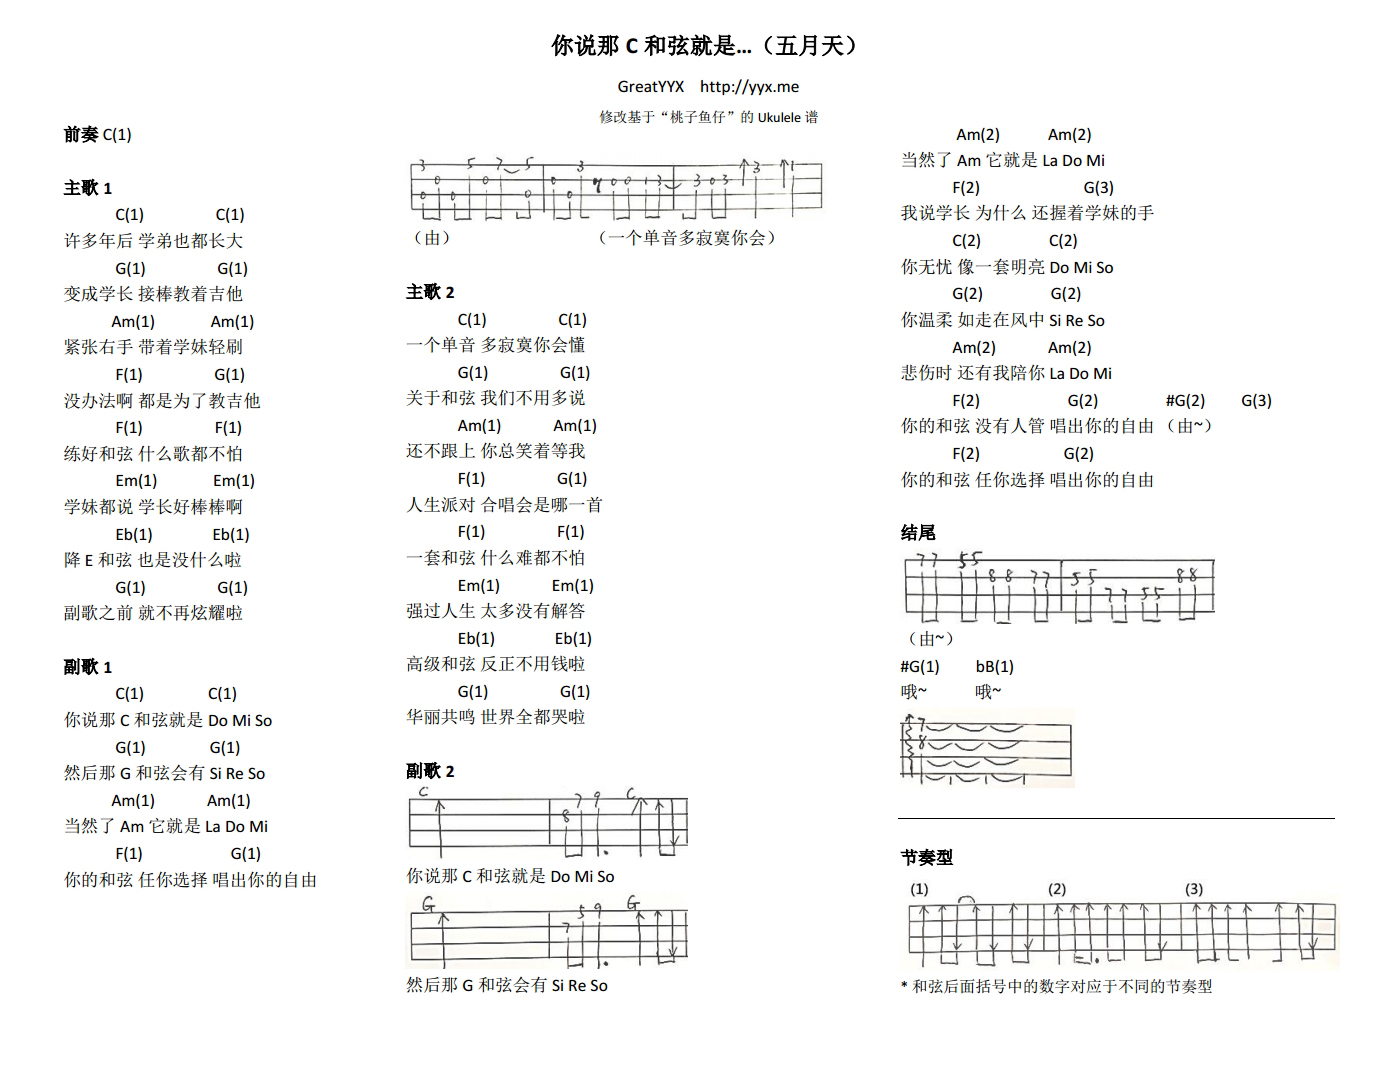
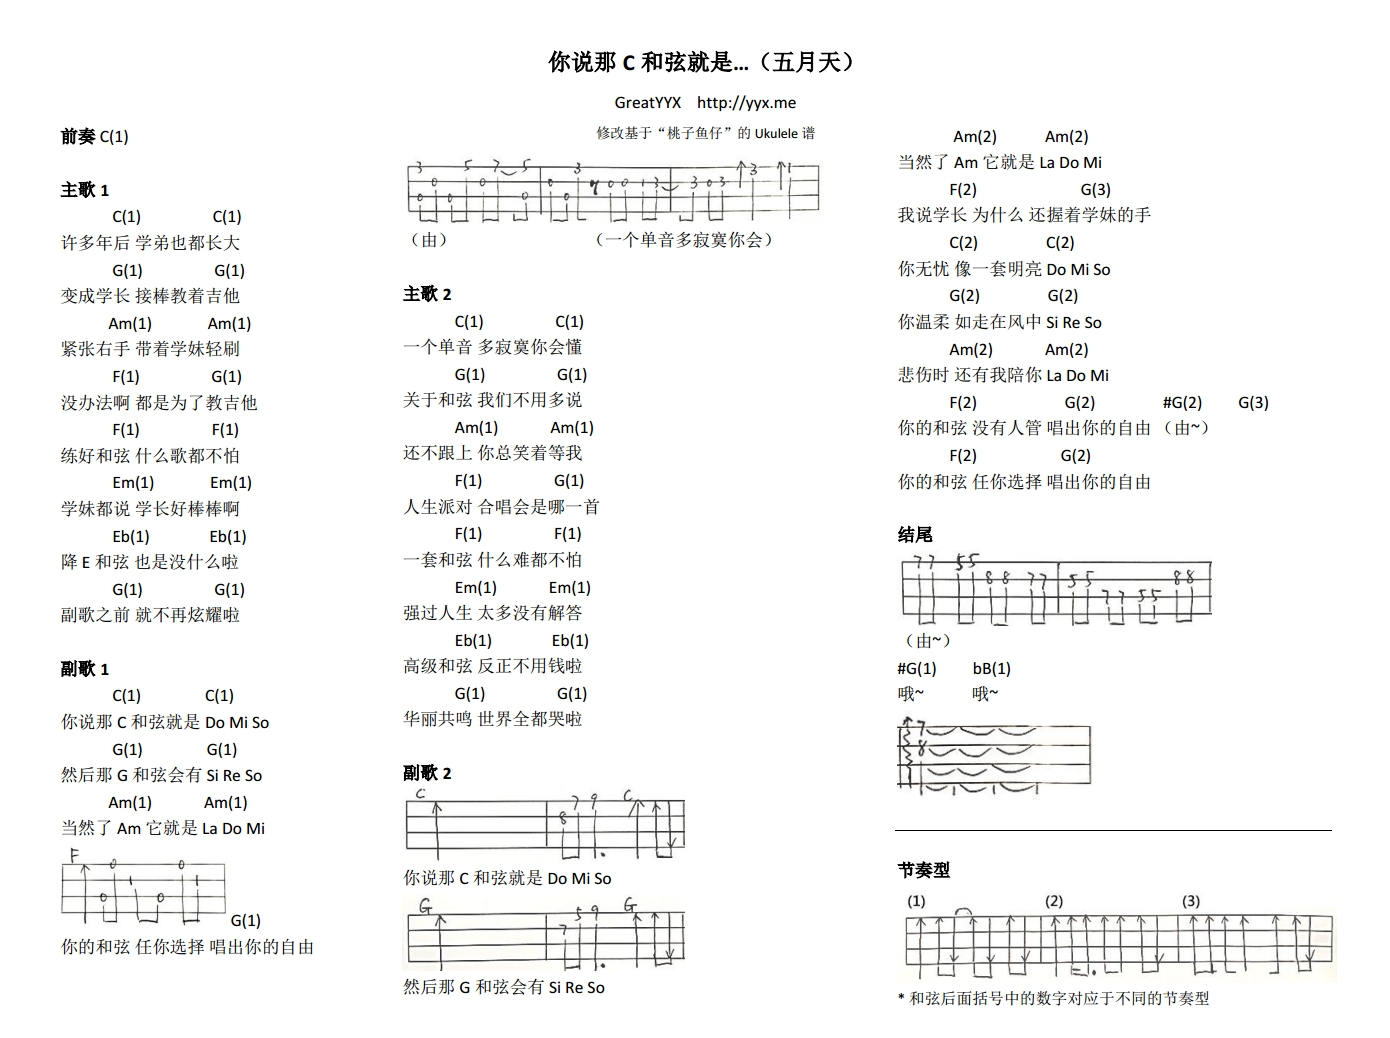
update post

Changed region(s): [[0.2784, 0.0308, 0.6187, 0.9557], [0.6496, 0.1233, 0.959, 0.9865], [0.0309, 0.1233, 0.2475, 0.9249]]

diff --git a/posts/ni_shuo_na_c_he_xian_jiu_shi-ukulele-tab.html b/posts/ni_shuo_na_c_he_xian_jiu_shi-ukulele-tab.html
@@ -98,9 +98,10 @@
 <p>9月底龙童鞋回国，把曾经带给她好心情的Ukulele转送给我保管。由于开学初事情多，直到最近几天才翻出来耍耍。记得上次（也是初次）玩小U还是留学前去深圳看叽歪的时候，那时候2欣家有一把Ukulele用来当装饰品……这一晃就2年多了。</p>
 <p>最近听五月天的新专《自传》，感觉依然是熟悉的配方熟悉的味道（就比如《终于结束的起点》听出了《仓颉》的感觉）。《你说那C和弦就是...》比较简单上口，内容上有点《T1213121》的感觉，“四大和弦一套指法弹吉他”，和弦进行也是非常模式化的1564。</p>
 <h1>谱子</h1>
-<p>当时就是随便搜了个谱子，后来发现是“鱼仔”家的，原来玩Uku的时候用过这个小伙子的谱子，感觉挺好的，于是就拿来瞎弹了一会。不过感觉谱子还是太单一，于是就稍微改编了下。</p>
+<p>当时就是随便搜了个谱子，后来发现是“鱼仔”家的(原来玩Uku的时候用过他的谱子，感觉挺好的），于是就拿来瞎弹了一会。不过感觉谱子还是太单一，就稍微改编了下加入了更多变化。选调是C调，和原调一致，4/4拍，标准调弦。</p>
 <p><img alt="ni_shuo_na_c_he_xian_jiu_shi" src="../statics/ni_shuo_na_c_he_xian_jiu_shi-ukulele-tab/tab.jpg" /></p>
-<p>非和弦的地方直接在纸上画了然后扫到电脑里的（没Ukulele的制谱软件），节奏型总共3个，和弦后面括号里的数字标注了相对应的节奏型。</p>
+<p>非和弦的地方我直接在纸上画了谱子，然后扫到电脑里的（没Ukulele的制谱软件，标注我也是按照吉他谱画的）。节奏型总共3个，和弦后面括号里的数字标注了相对应的节奏型。副歌1和主歌2中间的间奏和结尾部分可以用一点点滑音，整体会更加连贯出彩。</p>
+<p>Ukulele的低音表现基本就是没有，不过用来直接搞这些欢快的歌还是可以的。</p>
   </div><!-- /.blog-post -->
   
   <hr>
